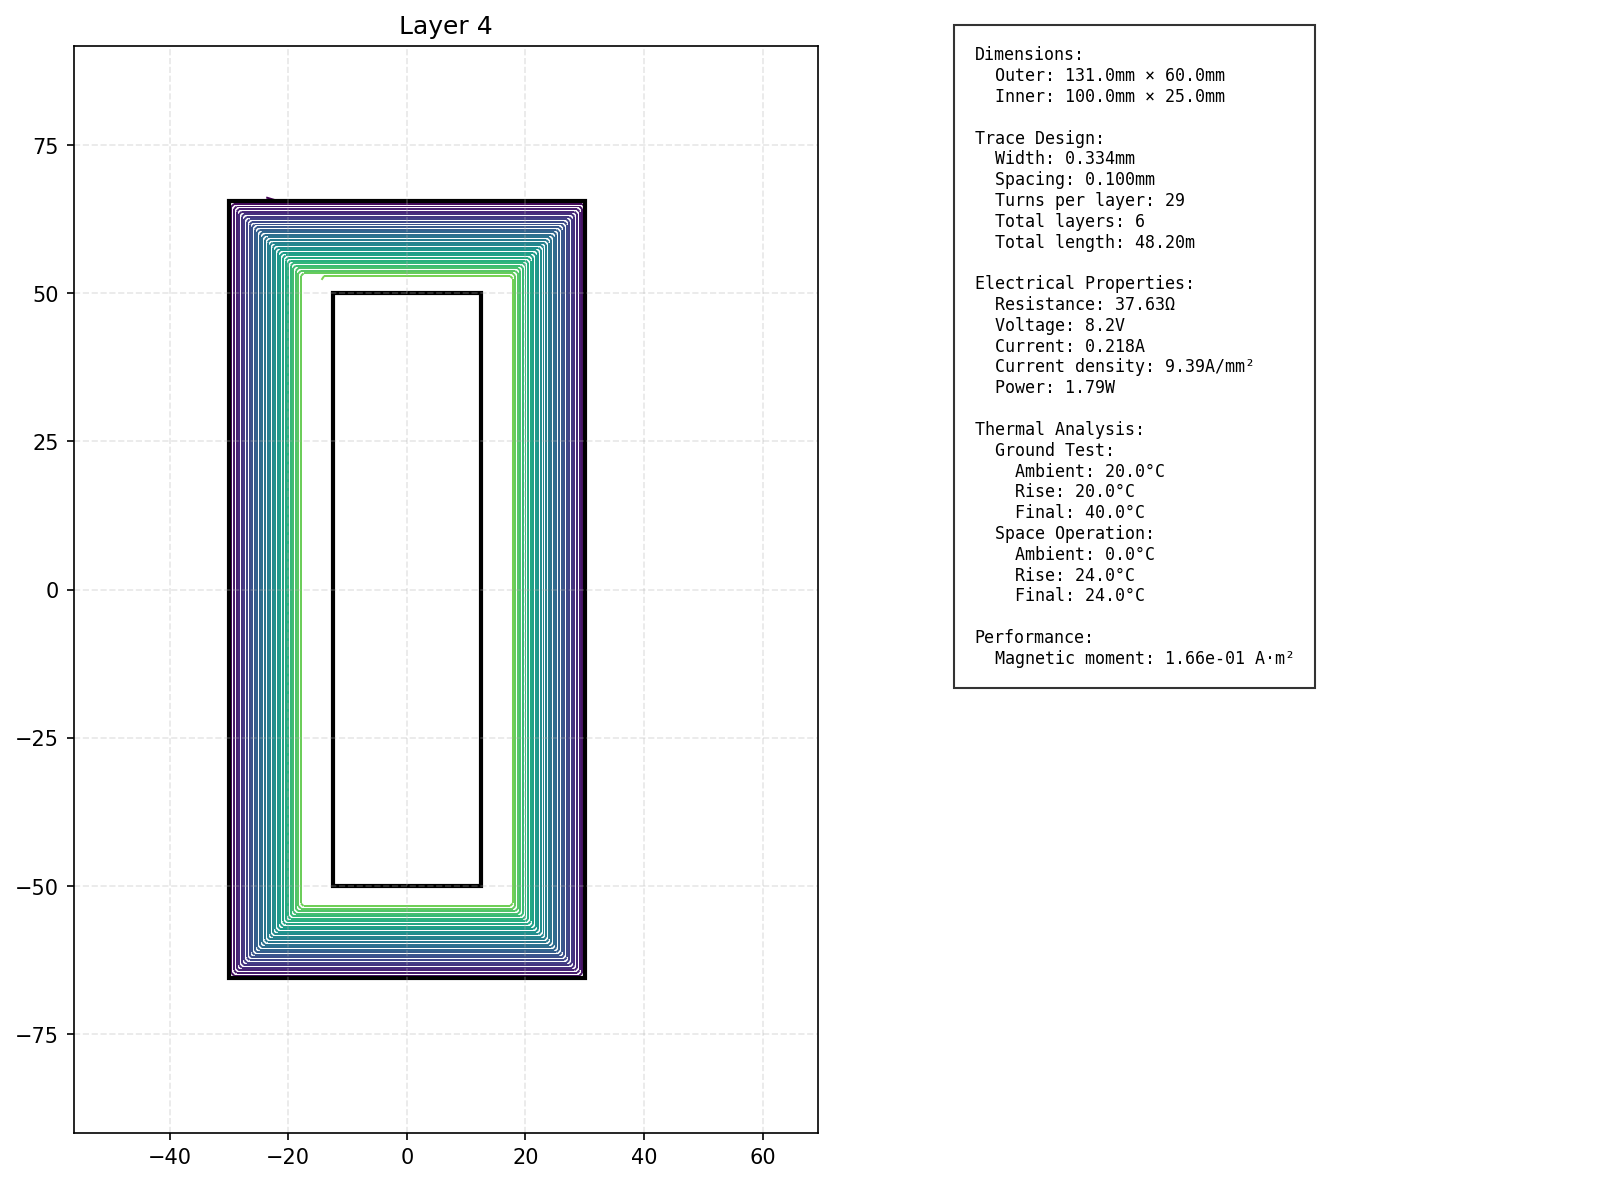
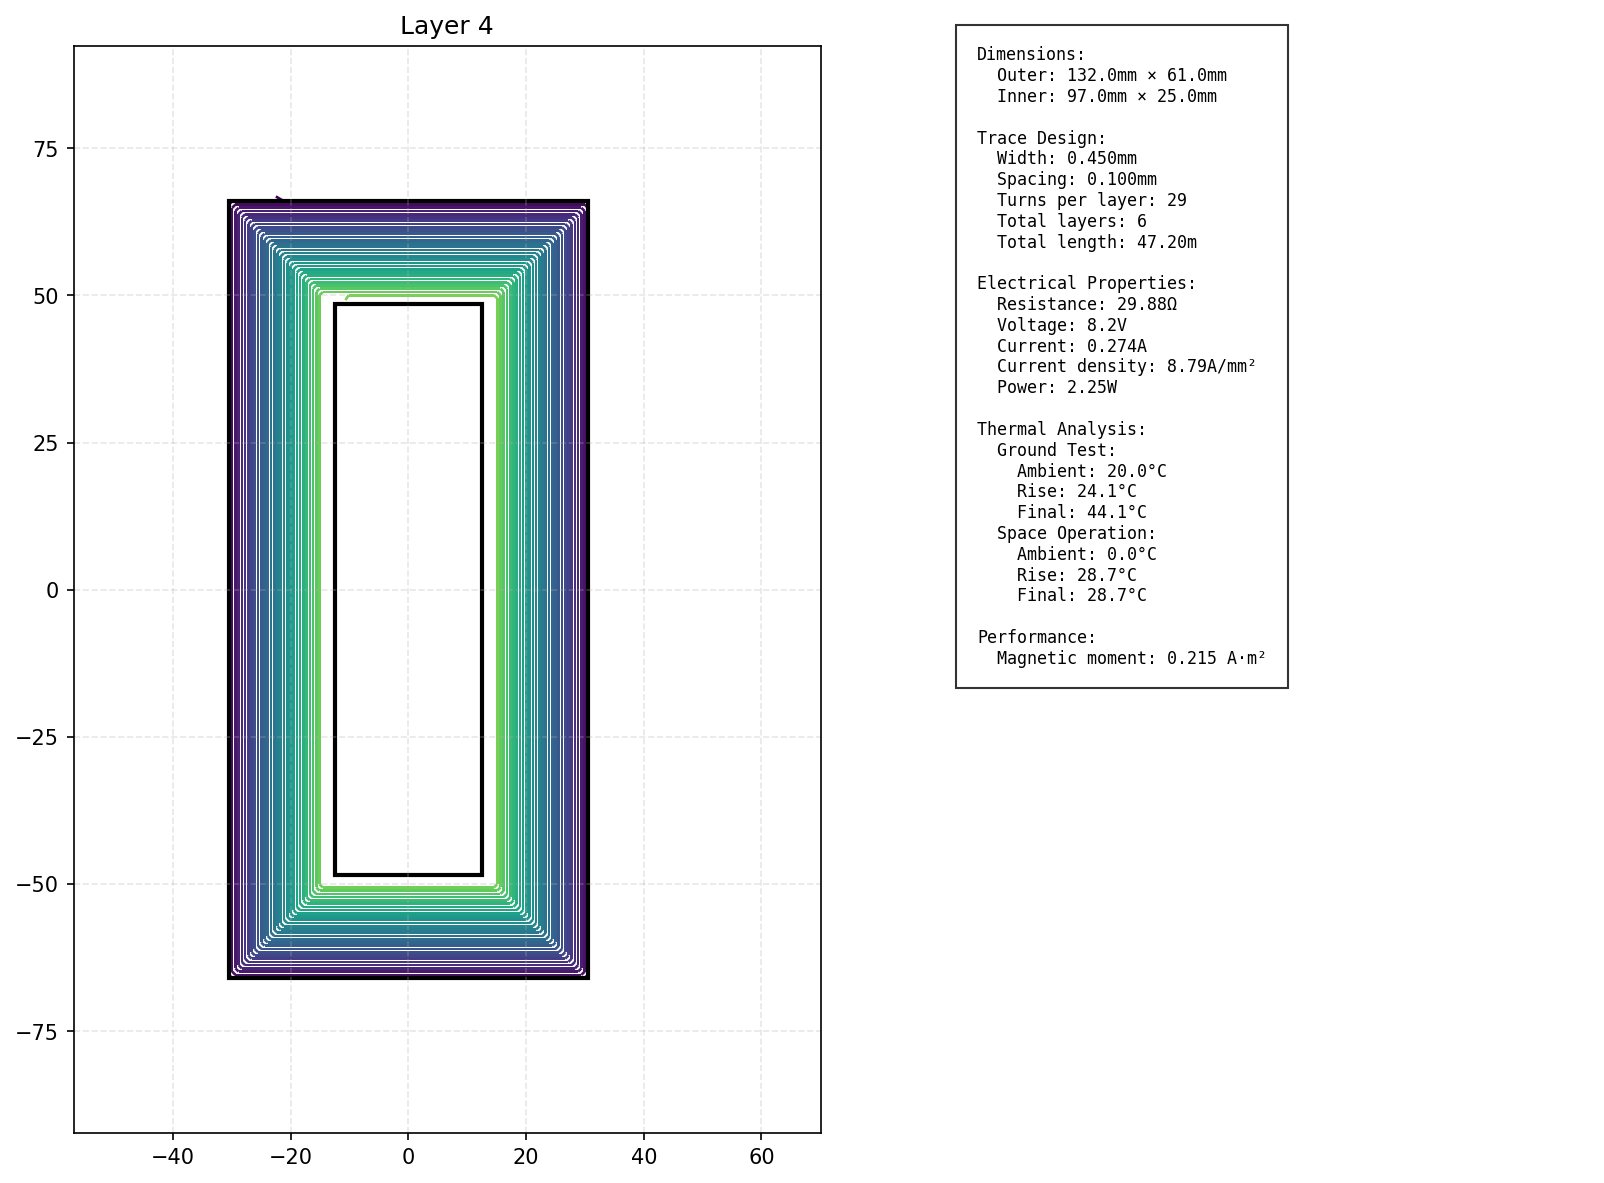
Ensure correct coil spacings at inner bounds

diff --git a/design.py b/design.py
@@ -49,21 +49,72 @@ class MagnetorquerOptimizer:
         self.current_density_limit = constants.get('current_density_limit', 35e6)  # A/m²
 
     def calculate_turn_length(self, turn_number, trace_width):
-        """Calculate length of a specific turn starting from outer edge"""
+        """Calculate length of a specific turn including connections beyond outer bounds"""
+        # Calculate offset from edge for this turn
         offset = turn_number * (trace_width + self.min_trace_spacing)
+        
+        # Current rectangle dimensions
         current_length = self.outer_length - 2 * offset
         current_width = self.outer_width - 2 * offset
         
-        # Account for spiral progression
-        long_side1 = current_length
-        short_side1 = current_width
-        long_side2 = current_length - (trace_width + self.min_trace_spacing)
-        short_side2 = current_width - (trace_width + self.min_trace_spacing)
+        # Main rectangular path
+        perimeter = 2 * (current_length + current_width)
         
-        return long_side1 + short_side1 + long_side2 + short_side2
+        # Add connection to next turn if not the last turn
+        # Connections can extend beyond outer bounds, so we don't need to constrain them
+        if turn_number < self.calculate_max_turns(trace_width) - 1:
+            # Connection follows the spiral pattern with more freedom
+            connection_horizontal = trace_width + self.min_trace_spacing
+            connection_vertical = trace_width + self.min_trace_spacing
+            connection_length = connection_horizontal + connection_vertical
+        else:
+            # For last turn, just need room for output connection
+            connection_length = trace_width + self.min_trace_spacing
+        
+        return perimeter + connection_length
+
+    def calculate_max_turns(self, trace_width):
+        """Calculate maximum turns ensuring inner clearance for connections"""
+        if trace_width <= 0:
+            return 0
+            
+        # Minimum clearance from inner bounds for connections
+        # Need space for:
+        # 1. The connection trace itself
+        # 2. Minimum spacing requirement
+        # 3. Additional safety margin
+        min_inner_clearance = 2 * (trace_width + 2 * self.min_trace_spacing)
+        
+        # Calculate available space from outer edge to inner edge
+        # Now we need to subtract the clearance from the available space
+        effective_inner_length = self.inner_length + 2 * min_inner_clearance
+        effective_inner_width = self.inner_width + 2 * min_inner_clearance
+        
+        available_height = (self.outer_length - effective_inner_length) / 2
+        available_width = (self.outer_width - effective_inner_width) / 2
+        
+        if available_height <= 0 or available_width <= 0:
+            return 0
+        
+        # Each turn needs space for:
+        # 1. Trace width
+        # 2. Spacing to next turn
+        turn_pitch = trace_width + self.min_trace_spacing
+        
+        # Calculate turns that can fit in the smaller dimension
+        max_turns_height = int(available_height / turn_pitch)
+        max_turns_width = int(available_width / turn_pitch)
+        
+        # Use the more constraining dimension
+        max_turns = min(max_turns_height, max_turns_width)
+        
+        return max(1, max_turns)
 
     def calculate_area(self, turn_number, trace_width):
-        """Calculate area enclosed by a specific spiral turn including connections"""
+        """Calculate area enclosed by a specific turn accounting for inner clearance"""
+        # Calculate minimum clearance requirement
+        min_inner_clearance = 2 * (trace_width + 2 * self.min_trace_spacing)
+        
         # Base offset from outer edge
         offset = turn_number * (trace_width + self.min_trace_spacing)
         
@@ -71,46 +122,40 @@ class MagnetorquerOptimizer:
         length = self.outer_length - 2 * offset
         width = self.outer_width - 2 * offset
         
+        # Verify we're not too close to inner cutout
+        effective_inner_length = self.inner_length + 2 * min_inner_clearance
+        effective_inner_width = self.inner_width + 2 * min_inner_clearance
+        
+        # If this turn would be too close to inner cutout, return 0 area
+        if length < effective_inner_length or width < effective_inner_width:
+            return 0
+        
         # Area of main rectangular path
-        rect_area = length * width
-        
-        # Area of connecting segment to next turn
-        if turn_number < self.calculate_max_turns(trace_width) - 1:
-            # Next turn's dimensions
-            next_offset = (turn_number + 1) * (trace_width + self.min_trace_spacing)
-            next_length = self.outer_length - 2 * next_offset
-            next_width = self.outer_width - 2 * next_offset
-            
-            # Small rectangular area added by connection to next turn
-            # This is approximately the small rectangle formed by the connecting segment
-            connection_width = trace_width + self.min_trace_spacing
-            connection_length = min(length, width) / 2  # Approximate length of connecting segment
-            connection_area = connection_width * connection_length
-        else:
-            connection_area = 0
-        
-        return rect_area + connection_area
+        return length * width
 
-    def calculate_max_turns(self, trace_width):
-        """Calculate maximum number of turns possible between outer and inner edges"""
-        if trace_width <= 0:
-            return 0
-            
-        # Calculate available space in both dimensions
-        available_height = (self.outer_length - self.inner_length) / 2
-        available_width = (self.outer_width - self.inner_width) / 2
+    def is_design_valid(self, trace_width, num_turns):
+        """Validate that design maintains proper clearance from inner cutout"""
+        # Calculate minimum required clearance
+        min_inner_clearance = 2 * (trace_width + 2 * self.min_trace_spacing)
         
-        if available_height <= 0 or available_width <= 0:
-            return 0
-            
-        # Calculate turns that can fit in the smaller dimension
-        # Account for trace width and spacing on both sides
-        max_turns = min(
-            int(available_height / (trace_width + 2 * self.min_trace_spacing)),
-            int(available_width / (trace_width + 2 * self.min_trace_spacing))
-        )
+        # Calculate the innermost turn's position
+        final_offset = (num_turns - 1) * (trace_width + self.min_trace_spacing)
         
-        return max(1, max_turns)
+        # Calculate effective dimensions of innermost turn
+        min_length = self.outer_length - 2 * final_offset
+        min_width = self.outer_width - 2 * final_offset
+        
+        # Check clearance from inner cutout
+        length_clearance = (min_length - self.inner_length) / 2
+        width_clearance = (min_width - self.inner_width) / 2
+        
+        # Both clearances must be greater than minimum required
+        if length_clearance < min_inner_clearance:
+            return False
+        if width_clearance < min_inner_clearance:
+            return False
+        
+        return True
 
     def calculate_resistance(self, num_turns, trace_width):
         """Calculate total resistance of the rectangular coil"""
@@ -243,7 +288,7 @@ class MagnetorquerOptimizer:
         return min(self.v_dd / resistance, self.max_current)
 
     def objective_function(self, x):
-        """Objective function for rectangular coil optimization"""
+        """Modified objective function with relaxed outer bounds"""
         trace_width = x[0]
         
         if trace_width < self.min_trace_width or trace_width > self.max_trace_width:
@@ -251,7 +296,8 @@ class MagnetorquerOptimizer:
             
         max_turns = self.calculate_max_turns(trace_width)
         
-        if max_turns == 0:
+        # Validate design doesn't intrude into inner cutout
+        if not self.is_design_valid(trace_width, max_turns):
             return 0
             
         resistance = self.calculate_resistance(max_turns, trace_width)
@@ -328,6 +374,7 @@ class MagnetorquerOptimizer:
             'inductance': inductance,                                                                           # H * 10^-6              
         }
 
+
 def main():
     # Create optimizer instance with config file
     optimizer = MagnetorquerOptimizer('constraints.json')
@@ -355,9 +402,9 @@ def main():
             "resistance": round(result['resistance'], 2),
             "voltage": round(result['voltage'], 1),
             "current": round(result['current'], 3),
-            "current_density": round(result['current_density']/1e6, 2),
             "power": round(result['power'], 2),
-            "inductance": f"{result['inductance']*1e6:.2f}",
+            "current_density": round(result['current_density']/1e6, 2),
+            "inductance": round(result['inductance']*1e6, 2),
         },
         "thermal": {
             "ground_test": {
@@ -372,7 +419,7 @@ def main():
             }
         },
         "performance": {
-            "magnetic_moment": format(result['magnetic_moment'], '.2e')
+            "magnetic_moment": round(result['magnetic_moment'], 4)
         }
     }
     
